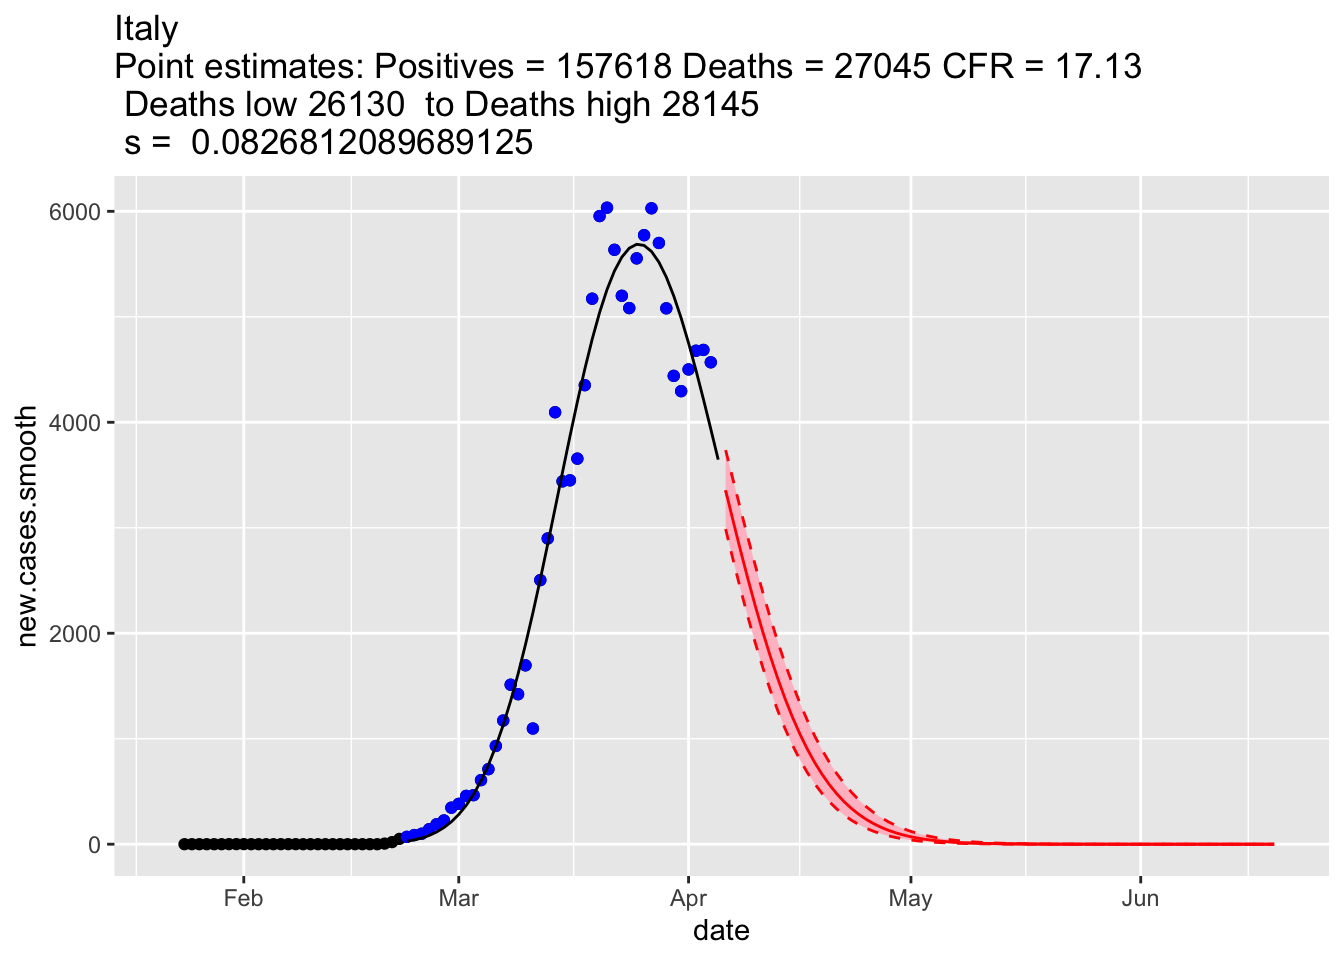
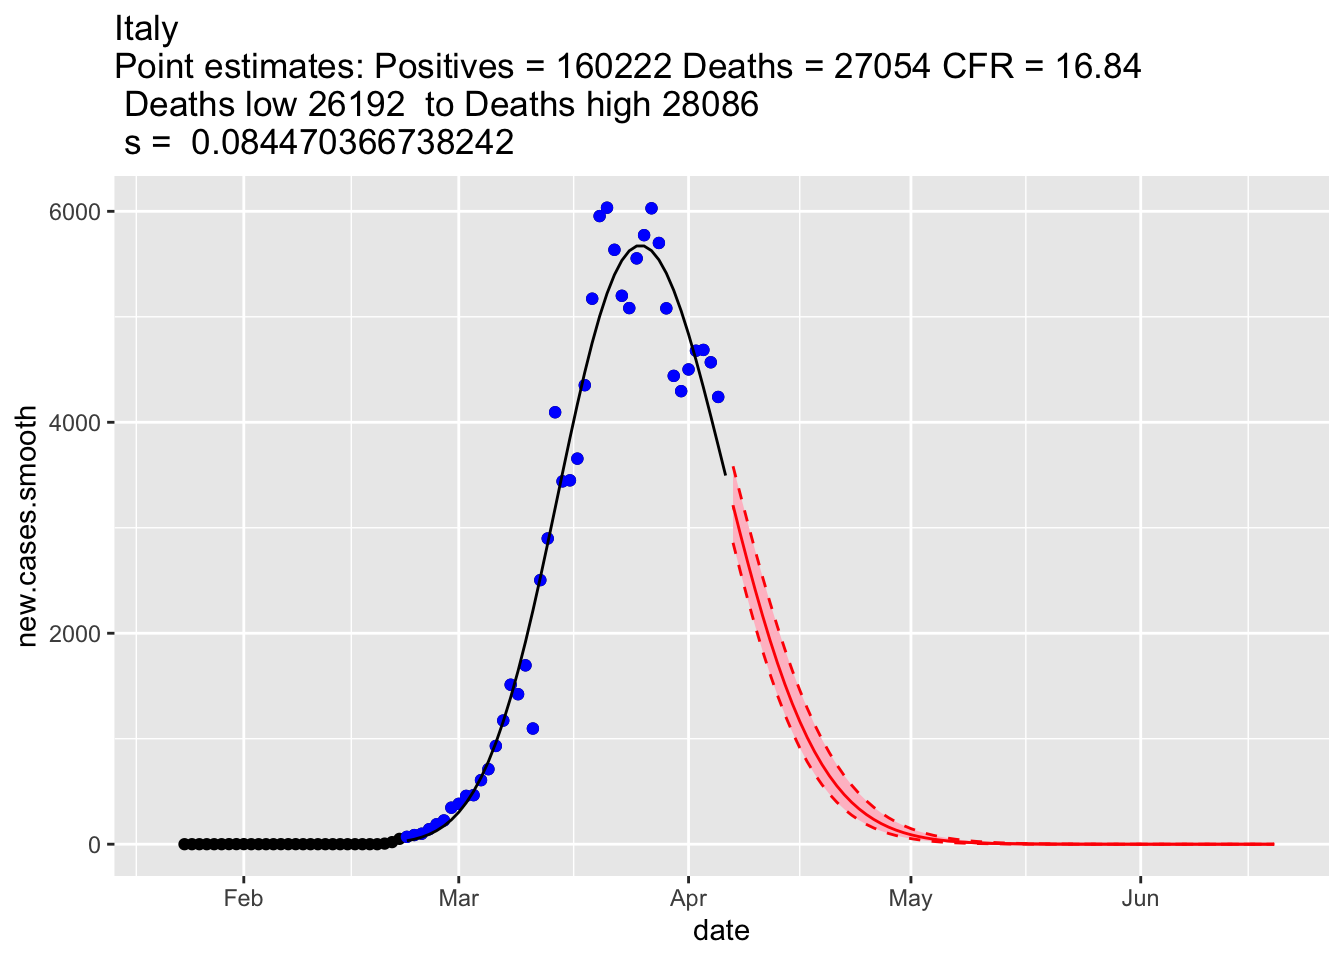
update forecast  figures

diff --git a/docs/Forecasts.html b/docs/Forecasts.html
@@ -336,7 +336,7 @@ $(document).ready(function () {
 </div>
 <div id="a-few-european-countries" class="section level2">
 <h2>A few European Countries</h2>
-<p><img src="Forecasts_files/figure-html/unnamed-chunk-5-1.png" width="672" /><img src="Forecasts_files/figure-html/unnamed-chunk-5-2.png" width="672" /><img src="Forecasts_files/figure-html/unnamed-chunk-5-3.png" width="672" /><img src="Forecasts_files/figure-html/unnamed-chunk-5-4.png" width="672" /><img src="Forecasts_files/figure-html/unnamed-chunk-5-5.png" width="672" /><img src="Forecasts_files/figure-html/unnamed-chunk-5-6.png" width="672" /><img src="Forecasts_files/figure-html/unnamed-chunk-5-7.png" width="672" /><img src="Forecasts_files/figure-html/unnamed-chunk-5-8.png" width="672" /><img src="Forecasts_files/figure-html/unnamed-chunk-5-9.png" width="672" /><img src="Forecasts_files/figure-html/unnamed-chunk-5-10.png" width="672" /><img src="Forecasts_files/figure-html/unnamed-chunk-5-11.png" width="672" /><img src="Forecasts_files/figure-html/unnamed-chunk-5-12.png" width="672" /></p>
+<p><img src="Forecasts_files/figure-html/unnamed-chunk-5-1.png" width="672" /><img src="Forecasts_files/figure-html/unnamed-chunk-5-2.png" width="672" /><img src="Forecasts_files/figure-html/unnamed-chunk-5-3.png" width="672" /><img src="Forecasts_files/figure-html/unnamed-chunk-5-4.png" width="672" /><img src="Forecasts_files/figure-html/unnamed-chunk-5-5.png" width="672" /><img src="Forecasts_files/figure-html/unnamed-chunk-5-6.png" width="672" /><img src="Forecasts_files/figure-html/unnamed-chunk-5-7.png" width="672" /><img src="Forecasts_files/figure-html/unnamed-chunk-5-8.png" width="672" /><img src="Forecasts_files/figure-html/unnamed-chunk-5-9.png" width="672" /><img src="Forecasts_files/figure-html/unnamed-chunk-5-10.png" width="672" /><img src="Forecasts_files/figure-html/unnamed-chunk-5-11.png" width="672" /><img src="Forecasts_files/figure-html/unnamed-chunk-5-12.png" width="672" /><img src="Forecasts_files/figure-html/unnamed-chunk-5-13.png" width="672" /></p>
 </div>
 <div id="north-america" class="section level2">
 <h2>North America</h2>
